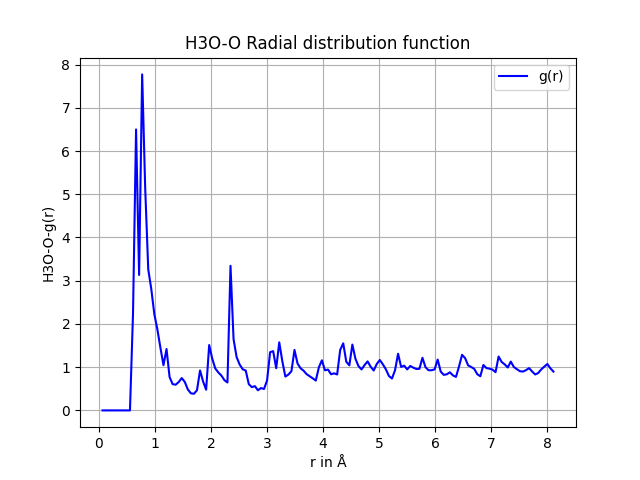
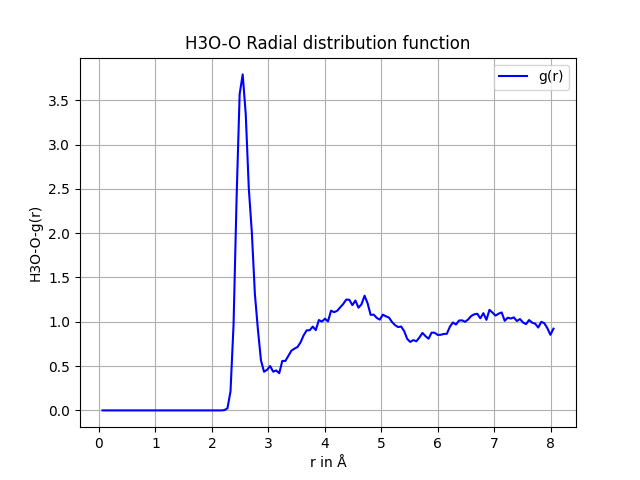
fixed issues with RDF on ions

diff --git a/src/tools/md_class_functions.py b/src/tools/md_class_functions.py
@@ -373,7 +373,7 @@ def init_rdf(data: np.ndarray, box: np.ndarray, n_bins: int, start: float,
             return upscale, upscale_2.shape[0]/Vol, tree, bin_list, bin_vol, upscale_2
         if ion:
             upscale_2 = scale_to_box(data_2[2:], box, ion)
-            return upscale, upscale_2.shape[0]/Vol, tree, bin_list, bin_vol, upscale_2
+            return upscale, number_density, tree, bin_list, bin_vol, upscale_2
 
 
 def calculate_rdf(data: np.ndarray, rho: float, tree: cKDTree, bins: np.ndarray,
@@ -439,15 +439,14 @@ def get_all_distances(data: np.ndarray, box: []=None, data_2: np.ndarray=None, i
             return distances
         if is_1d:
             #case if this is used for ion rdf calculation
-            distances = np.zeros((data.shape[0], len(data_2)))
+            distances = np.zeros(data.shape[0])
             for o_atom in range(data.shape[0]):
-                for h_atom in range(len(data_2)):
-                    distances[o_atom, h_atom] = get_distance(data[o_atom, :], data_2[h_atom],
-                                                             mode="pbc", box=box)
+                distances[o_atom] = get_distance(data[o_atom, :], data_2,
+                                                         mode="pbc", box=box)
             return distances
 
 
-def count_rdf_hist(distances: np.ndarray, bins: np.ndarray) -> np.ndarray:
+def count_rdf_hist(distances: np.ndarray, bins: np.ndarray, ion: bool= False) -> np.ndarray:
     '''
     Function to count the number of distances at each bin
     :param distances:array of all distance combinations
@@ -455,12 +454,16 @@ def count_rdf_hist(distances: np.ndarray, bins: np.ndarray) -> np.ndarray:
     :return: array of the binned distances
     '''
     counter = np.zeros(bins.shape[0] - 1)
+    if not ion:
+        for atom in range(distances.shape[0]):
+            temp, _ = np.histogram(distances[atom, :], bins=bins, density=False)
+            counter += temp
 
-    for atom in range(distances.shape[0]):
-        temp, _ = np.histogram(distances[atom, :], bins=bins, density=False)
+        return counter / distances.shape[0]
+    if ion:
+        temp, _ = np.histogram(distances.reshape(-1), bins=bins, density=False)
         counter += temp
-
-    return counter / distances.shape[0]
+        return counter
 
 
 def calc_rdf_rdist(data: [np.ndarray], box: [np.ndarray], data_2: [np.ndarray]=None, snapshot: int=0,
@@ -481,9 +484,8 @@ def calc_rdf_rdist(data: [np.ndarray], box: [np.ndarray], data_2: [np.ndarray]=N
                                                              n_bins, start, stop, data_2, ion)
 
     distance = get_all_distances(upscale, box[snapshot], upscale_2, ion)
-    counter = count_rdf_hist(distance, bins=bin_list)
+    counter = count_rdf_hist(distance, bins=bin_list, ion=ion)
     counter = np.divide(counter, bin_vol[1:])
-
     return counter / number_density, bin_list[1:]
 
 

diff --git a/src/water_md_class.py b/src/water_md_class.py
@@ -692,7 +692,7 @@ class Trajectory:
         if not single_frame:
             if gr_type=="OO":
                 rdf_list = np.zeros((self.n_snapshots, n_bins -1))
-                for snap in range(self.n_snapshots ):
+                for snap in range(self.n_snapshots):
 
                     gr, r = calc_rdf_rdist(data=self.s2, box=self.box_size, snapshot=snap, n_bins=n_bins, start=start,
                                            stop=stop)
@@ -716,12 +716,14 @@ class Trajectory:
                                            stop=stop, data_2=self.s1[snap])
                     rdf_list[snap, :] = gr
 
+
                 rdf_list = np.sum(rdf_list, axis=0) / rdf_list.shape[0]
                 return rdf_list, r
 
             if gr_type=="OH_ion":
                 rdf_list = np.zeros((self.recombination_time, n_bins -1))
                 for snap in range(self.recombination_time):
+                    # identify ion at each timestep
                     indexlist_group, _ = self.get_neighbour_KDT(mode="pbc", snapshot=snap)
                     for O_atom in range(self.s2[snap].shape[0]):
                         temp = np.append(np.argwhere(indexlist_group == O_atom), O_atom)
@@ -729,11 +731,12 @@ class Trajectory:
                             oh_ind = O_atom
                             break
 
-                    gr, r = calc_rdf_rdist(data=self.s2, box=self.box_size, snapshot=snapshot, n_bins=n_bins, start=start,
+                    gr, r = calc_rdf_rdist(data=self.s2, box=self.box_size, snapshot=snap, n_bins=n_bins, start=start,
                                            stop=stop, data_2=self.s2[snap][oh_ind, :], ion=True)
                     rdf_list[snap, :] = gr
 
                 rdf_list = np.sum(rdf_list, axis=0) / rdf_list.shape[0]
+
                 return rdf_list, r
 
             if gr_type=="H3O_ion":
@@ -746,7 +749,7 @@ class Trajectory:
                             h3o_ind = O_atom
                             break
 
-                    gr, r = calc_rdf_rdist(data=self.s2, box=self.box_size, snapshot=snapshot, n_bins=n_bins, start=start,
+                    gr, r = calc_rdf_rdist(data=self.s2, box=self.box_size, snapshot=snap, n_bins=n_bins, start=start,
                                            stop=stop, data_2=self.s2[snap][h3o_ind, :], ion=True)
                     rdf_list[snap, :] = gr
 

diff --git a/testing/md_class_test.py b/testing/md_class_test.py
@@ -4,12 +4,12 @@ from testing_cases import read_lammps_test, MSD_test
 from src.tools.md_class_utility import *
 
 ts = 110
-trj = read_lammps_test(path="recombination_tester.lammpstrj", scaled=0)
+trj = read_lammps_test(path="cluster_run_150.lammpstrj")
 #msd = trj.get_MSD()
 #plot_MSD(msd)
-#g_r, r= trj.get_rdf_rdist(180, gr_type="OH_ion", n_bins=150, start=0.01, single_frame=False)
-
-#plot_rdf(g_r, r, "OH-O")
+g_r, r= trj.get_rdf_rdist(180, gr_type="H3O_ion", n_bins=150, start=0.01, single_frame=False)
+#g_r, r= trj.get_rdf_rdist(180, gr_type="OO", n_bins=150, start=0.01, single_frame=False)
+plot_rdf(g_r, r, "H3O-O")
 #oh, h3 = trj.get_ion_speed()
 #plot_ion_speed(oh, h3)
 
@@ -20,7 +20,7 @@ trj = read_lammps_test(path="recombination_tester.lammpstrj", scaled=0)
 
 
 #hb_ts = get_HB_timeseries(trj, cutoff=2.9)
-save_HB_Network_ovito(trj)
+#save_HB_Network_ovito(trj)
 #plot_HB_timeseries(hb_ts, trj.s2)
 #plot_HB_ratio(hb_ts, trj.n_atoms, apply_smoothing=True, window=20)
 #print(len(bonds_h3))
